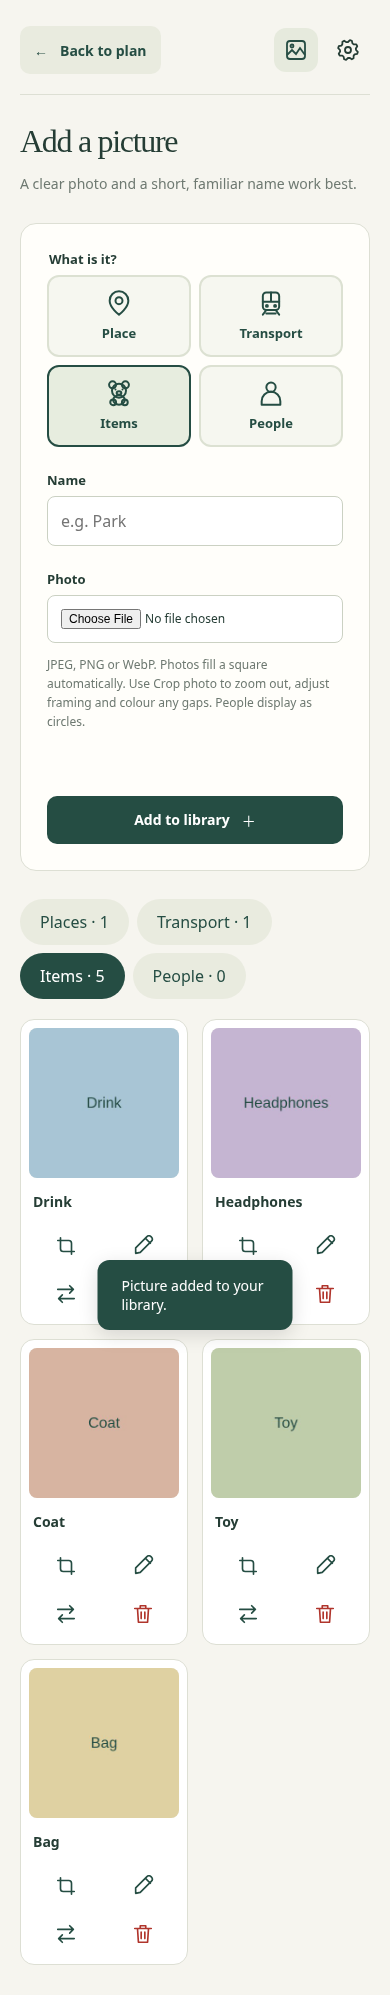
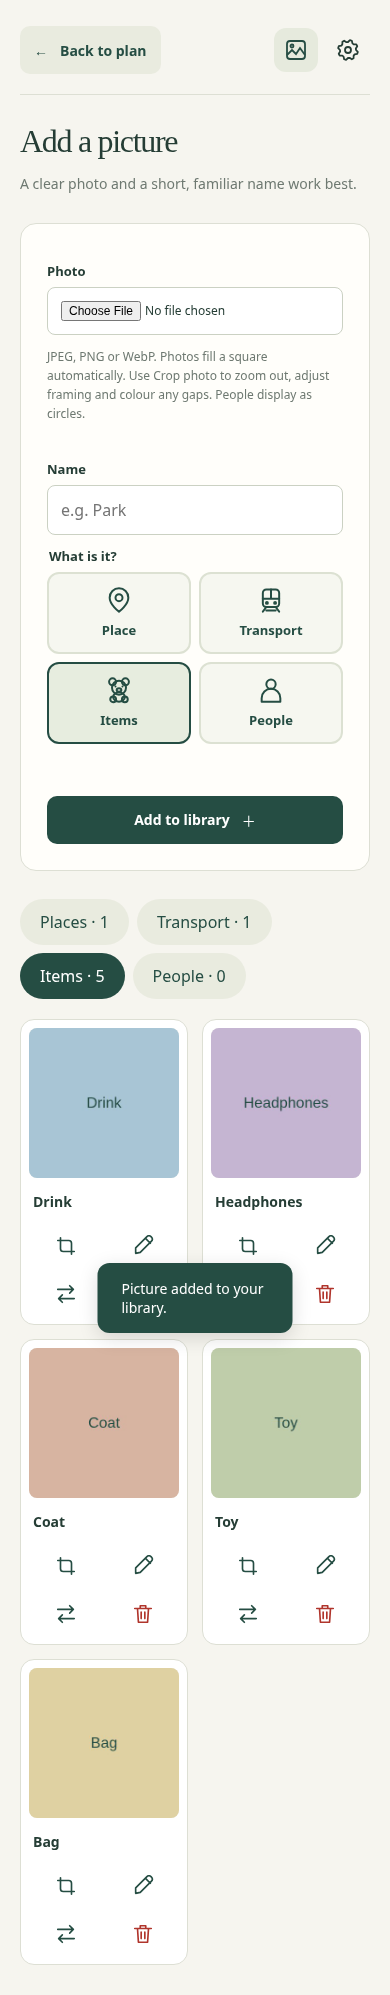
Reorder photo upload fields in v1.0.12

diff --git a/transition_cues/transition-cues-web/app.js b/transition_cues/transition-cues-web/app.js
@@ -111,7 +111,7 @@ const uploadCategories = [
 ];
 function renderManage() {
   frame(intro('Add a picture','A clear photo and a short, familiar name work best.')+
-    `<div class="management"><section class="panel" aria-label="Upload a picture"><form id="uploadForm"><fieldset class="kind-picker"><legend>What is it?</legend><div class="kind-options">${categoryChoices('kind',category)}</div></fieldset><div><label for="name">Name</label><input id="name" maxlength="60" placeholder="e.g. Park" required></div><div><label for="photo">Photo</label><input id="photo" type="file" accept="image/jpeg,image/png,image/webp" required><p class="help">JPEG, PNG or WebP. Photos fill a square automatically. Use Crop photo to zoom out, adjust framing and colour any gaps. People display as circles.</p><img id="photoPreview" class="preview-image" alt="Selected photo preview" hidden><button id="cropUpload" class="secondary" type="button" hidden>Crop photo</button></div><p id="uploadError" class="error" role="alert"></p><button class="primary" type="submit" id="uploadButton">Add to library <span aria-hidden="true">＋</span></button></form></section><section aria-label="Existing pictures"><div class="tabs" aria-label="Picture categories">${[['places','Places'],['transport','Transport'],['items','Items'],['people','People']].map(([k,t])=>`<button data-tab="${k}" aria-pressed="${category===k}">${t} · ${state[k].length}</button>`).join('')}</div><div id="library"></div></section></div>`, 'manage');
+    `<div class="management"><section class="panel" aria-label="Upload a picture"><form id="uploadForm"><div><label for="photo">Photo</label><input id="photo" type="file" accept="image/jpeg,image/png,image/webp" required><p class="help">JPEG, PNG or WebP. Photos fill a square automatically. Use Crop photo to zoom out, adjust framing and colour any gaps. People display as circles.</p><img id="photoPreview" class="preview-image" alt="Selected photo preview" hidden><button id="cropUpload" class="secondary" type="button" hidden>Crop photo</button></div><div><label for="name">Name</label><input id="name" maxlength="60" placeholder="e.g. Park" required></div><fieldset class="kind-picker"><legend>What is it?</legend><div class="kind-options">${categoryChoices('kind',category)}</div></fieldset><p id="uploadError" class="error" role="alert"></p><button class="primary" type="submit" id="uploadButton">Add to library <span aria-hidden="true">＋</span></button></form></section><section aria-label="Existing pictures"><div class="tabs" aria-label="Picture categories">${[['places','Places'],['transport','Transport'],['items','Items'],['people','People']].map(([k,t])=>`<button data-tab="${k}" aria-pressed="${category===k}">${t} · ${state[k].length}</button>`).join('')}</div><div id="library"></div></section></div>`, 'manage');
   const uploadKind=()=>$('#uploadForm input[name="kind"]:checked').value;
   app.querySelectorAll('[data-tab]').forEach(b=>b.onclick=()=>{category=b.dataset.tab;renderManage();});
   renderLibrary();

diff --git a/tests/browser_smoke.py b/tests/browser_smoke.py
@@ -39,9 +39,9 @@ def run():
                 # Test images are generated within the browser, never shipped in the real library.
                 for kind, name, color in [('places','Park','#9caf88'),('transport','Bus','#ddbd86'),('items','Drink','#a8c5d6'),('items','Headphones','#c5b5d3'),('items','Coat','#d7b4a2'),('items','Toy','#c0cdaa'),('items','Bag','#e0d1a2')]:
                     png = mobile.evaluate('''([name,color]) => {const c=document.createElement('canvas');c.width=500;c.height=320;const x=c.getContext('2d');x.fillStyle=color;x.fillRect(0,0,500,320);x.fillStyle='#254d43';x.font='32px sans-serif';x.textAlign='center';x.fillText(name,250,170);return c.toDataURL('image/png').split(',')[1];}''', [name,color])
-                    mobile.get_by_role('radio',name={'places':'Place','transport':'Transport','items':'Items','people':'People'}[kind],exact=True).check()
-                    mobile.locator('#name').fill(name)
                     mobile.locator('#photo').set_input_files({'name':name+'.png','mimeType':'image/png','buffer':base64.b64decode(png)})
+                    mobile.locator('#name').fill(name)
+                    mobile.get_by_role('radio',name={'places':'Place','transport':'Transport','items':'Items','people':'People'}[kind],exact=True).check()
                     mobile.locator('#uploadButton').click()
                     expect(mobile.locator('.library-item strong', has_text=name)).to_be_visible()
                 mobile.screenshot(path='/tmp/transition-cues-phone.png', full_page=True)

diff --git a/tests/container_smoke.py b/tests/container_smoke.py
@@ -81,5 +81,5 @@ print('PASS: replacement container preserves library and images in /data')
 
 if __name__ == '__main__':
     parser = argparse.ArgumentParser()
-    parser.add_argument('--image', default='transition-cues-ha-check:1.0.11')
+    parser.add_argument('--image', default='transition-cues-ha-check:1.0.12')
     run(parser.parse_args().image)

diff --git a/transition_cues/DOCS.md b/transition_cues/DOCS.md
@@ -42,7 +42,7 @@ Use the picture icon at the top right for **Picture library**, and the gear icon
 
 No PIN or first-launch setup is required. Open the picture library to add your photos. Existing photo libraries and return links remain available after updating; obsolete saved PIN hashes are removed automatically.
 
-In **Picture library**, choose the **Place** (location pin), **Transport** (train), **Items** (teddy bear), or **People** (person) icon, enter a name, choose a photo and add it. Use the Places, Transport, Items and People tabs to browse and remove pictures. JPEG, PNG and WebP are supported; convert HEIC files first. Photos are resized to at most 1600 pixels before upload. The four-item limit applies to a journey; the item library may contain more than four pictures.
+In **Picture library**, choose a photo, enter its name, then choose the **Place** (location pin), **Transport** (train), **Items** (teddy bear), or **People** (person) icon and add it. Use the Places, Transport, Items and People tabs to browse and remove pictures. JPEG, PNG and WebP are supported; convert HEIC files first. Photos are resized to at most 1600 pixels before upload. The four-item limit applies to a journey; the item library may contain more than four pictures.
 
 ## Manage existing pictures
 

diff --git a/transition_cues/CHANGELOG.md b/transition_cues/CHANGELOG.md
@@ -1,5 +1,9 @@
 # Changelog
 
+## 1.0.12
+
+- Reorder the upload form: choose a photo first, enter its name second, then choose its category.
+
 ## 1.0.11
 
 - Replace library crop/remove text with accessible icon buttons; show deletion in red.
